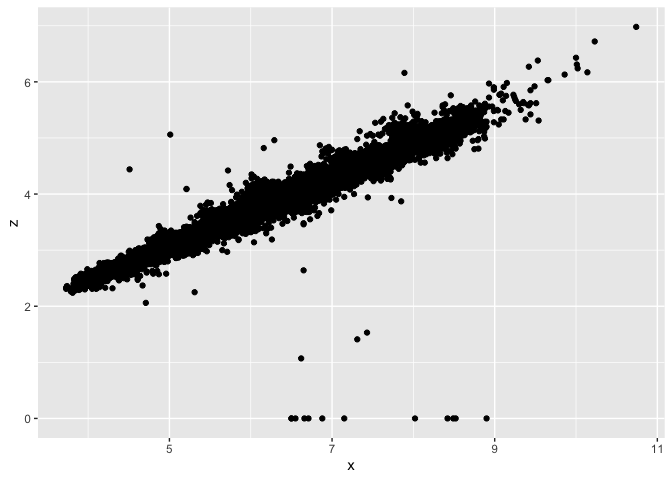
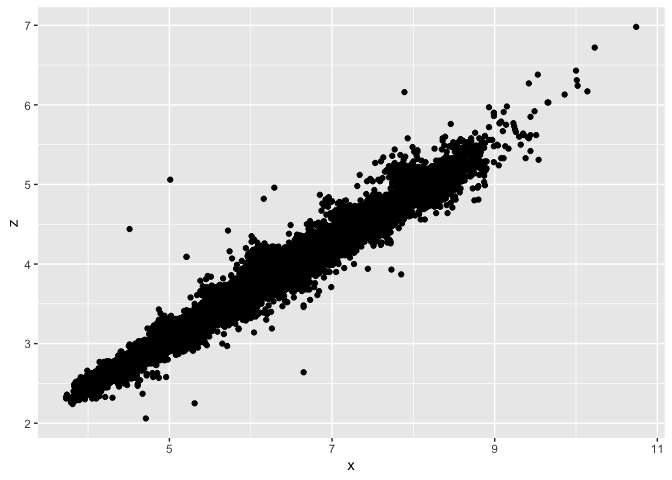
Removed extra syntax from code and adjusted y-axis parameters for final two graphs to no longer include values at 0.

diff --git a/hw_5.md b/hw_5.md
@@ -32,23 +32,23 @@ count(diamonds.cut, cut)
 **Part 2**
 
 ``` r
-dplyr::sample_frac(diamonds.cut, 0.1, replace = TRUE)
+sample_frac(diamonds.cut, 0.1, replace = TRUE)
 ```
 
     ## # A tibble: 5,394 × 10
     ## # Groups:   cut [5]
     ##    carat cut   color clarity depth table price     x     y     z
     ##    <dbl> <ord> <ord> <ord>   <dbl> <dbl> <int> <dbl> <dbl> <dbl>
-    ##  1  1.05 Fair  G     VS1      65.6    58  7283  6.25  6.38  4.13
-    ##  2  1.16 Fair  G     SI2      60.1    60  4307  6.9   6.72  4.09
-    ##  3  1.02 Fair  F     SI1      61.8    50  4227  6.59  6.51  4.05
-    ##  4  1.64 Fair  G     I1       64.5    60  4849  7.44  7.35  4.76
-    ##  5  0.35 Fair  D     VVS2     53.2    62  1011  4.87  4.8   2.57
-    ##  6  0.75 Fair  F     SI1      64.5    60  2363  5.65  5.54  3.61
-    ##  7  0.98 Fair  H     SI2      67.9    60  2777  6.05  5.97  4.08
-    ##  8  2    Fair  I     SI2      65.9    57 10833  7.96  7.79  5.19
-    ##  9  1.55 Fair  H     SI2      64.6    58  9045  7.28  7.21  4.68
-    ## 10  1    Fair  H     VS2      64.8    62  4861  6.22  6.13  4   
+    ##  1  1    Fair  D     VVS1     56.7    68 10752  6.66  6.64  3.77
+    ##  2  1    Fair  F     SI1      65.4    59  4798  6.27  6.2   4.08
+    ##  3  0.7  Fair  D     SI2      65.5    57  1806  5.56  5.43  3.6 
+    ##  4  0.7  Fair  E     SI1      64.4    53  2697  5.61  5.57  3.6 
+    ##  5  1.51 Fair  G     VS1      60.8    66 12948  7.35  7.25  4.44
+    ##  6  1.02 Fair  H     SI1      56.9    58  4935  6.64  6.75  3.81
+    ##  7  0.7  Fair  G     SI2      65.2    56  2117  5.63  5.54  3.64
+    ##  8  0.3  Fair  F     VS2      64.5    55   662  4.31  4.19  2.74
+    ##  9  0.5  Fair  F     VS2      55.8    60  1279  5.31  5.27  2.95
+    ## 10  1.2  Fair  I     I1       65.1    55  2376  6.65  6.59  4.31
     ## # … with 5,384 more rows
 
 ``` r
@@ -61,8 +61,8 @@ dplyr::sample_frac(diamonds.cut, 0.1, replace = TRUE)
 diamonds.size <- diamonds %>%
   group_by(clarity)
 
-dplyr::slice_max(diamonds.size, order_by = carat,n = 100, with_ties = FALSE) %>%
-  dplyr::summarise(average.size = mean(carat))
+slice_max(diamonds.size, order_by = carat,n = 100, with_ties = FALSE) %>%
+  summarise(average.size = mean(carat))
 ```
 
     ## # A tibble: 8 × 2
@@ -104,7 +104,7 @@ points removed.
 
 ``` r
 diamonds.organized <- diamonds %>%
-  filter(x >3, y < 20, z < 10)
+  filter(x >3, y < 20, y > 1, z < 10, z > 2)
 
 ggplot(data = diamonds.organized) +
   geom_point(mapping = aes(x = x, y = y))
